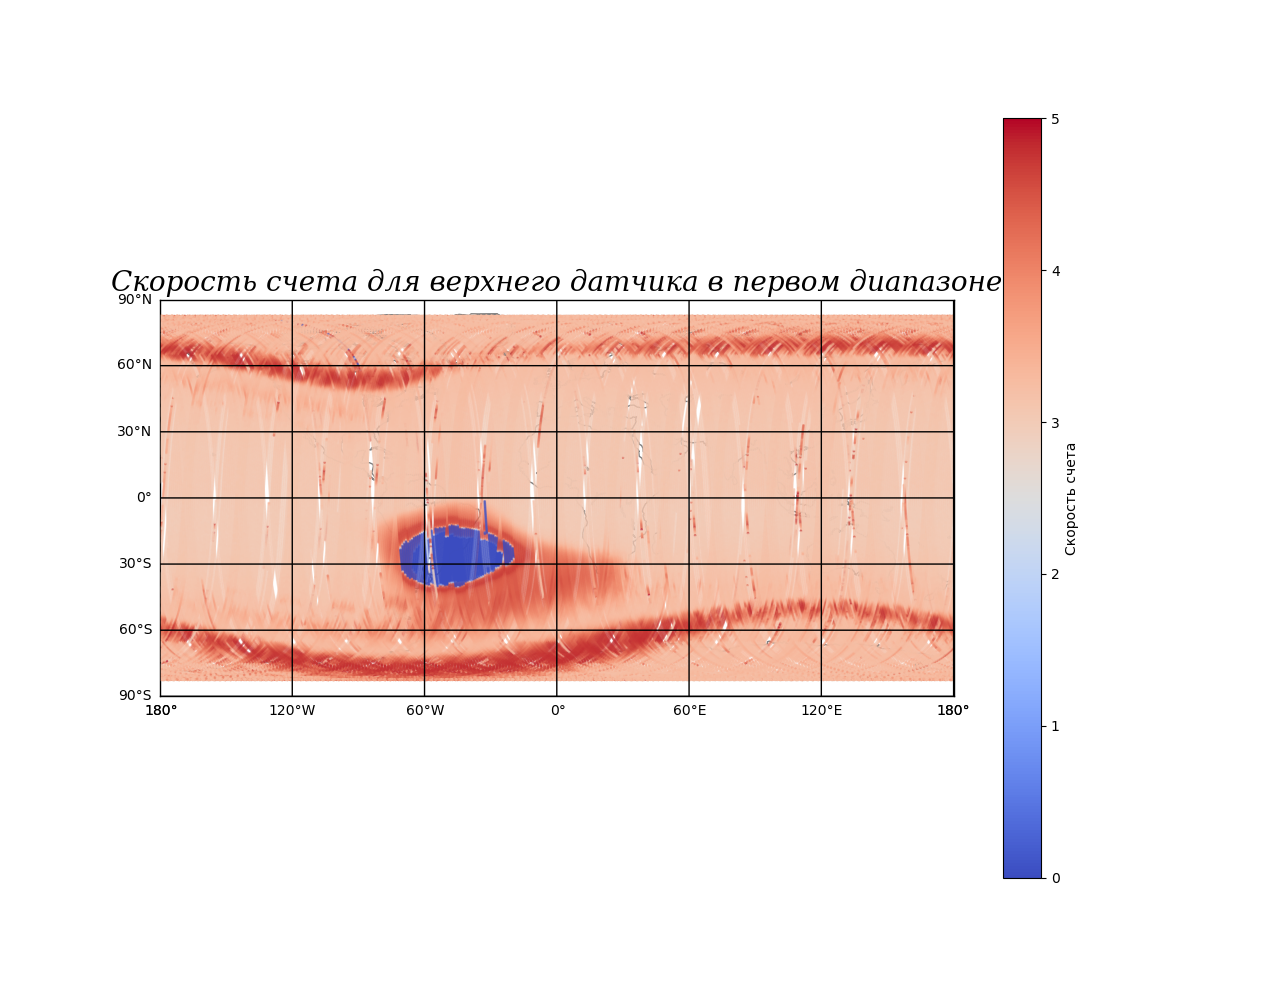
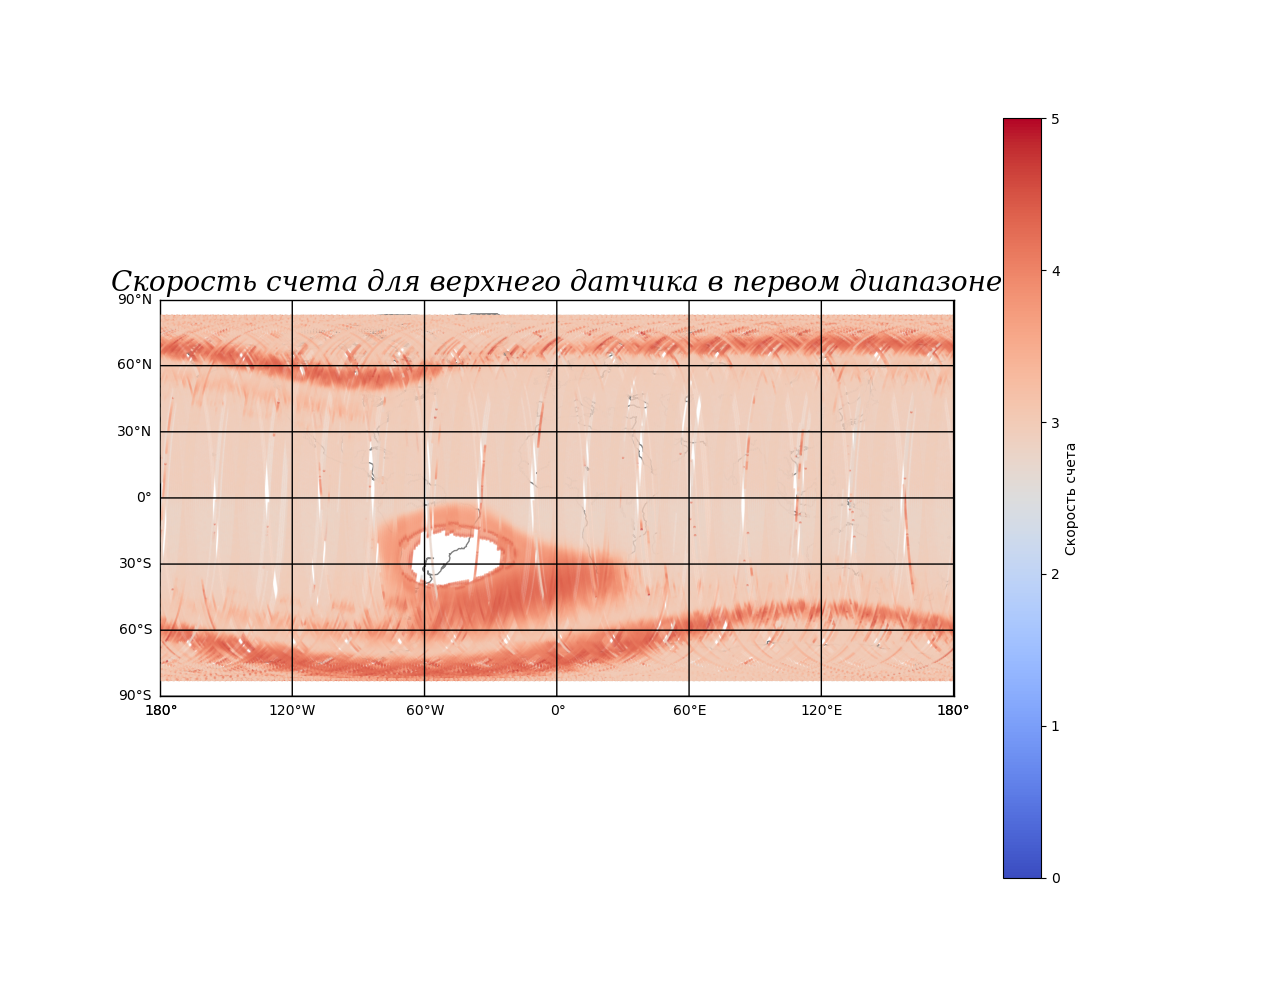
draw plots for other days and find best stable range

diff --git a/graph.py b/graph.py
@@ -3,6 +3,8 @@ import numpy as np
 import bisect
 
 
+DATE = 20090308
+
 def get_lat_ticks(times, pair_time_lat):
     tick_labels = []
     for time in times:
@@ -12,7 +14,7 @@ def get_lat_ticks(times, pair_time_lat):
 
 
 def read(name):
-    with open(f"orbit_20090312/{name}") as file:
+    with open(f"orbits/orbit_{DATE}/{name}") as file:
         time = []
         lat = []
         count_rate = []
@@ -22,33 +24,42 @@ def read(name):
         str_time_duration = file.readline()
         str_long_range = file.readline()
 
+        points_color = []
+
         for line in file:
             point = list(map(float, line.split()))
             time.append(point[0])
-            lat.append(round(point[2], 2))
-            count_rate.append(point[1])
-            pair_time_lat[0].append(point[0])
-            pair_time_lat[1].append(point[2])
+            lat.append(round(point[-2], 2))
+            count_rate.append(sum(point[1:4]))
+            if sum(point[1:4]) > 500 and sum(point[1:4]) < 2000:
+                points_color.append('lightgreen')
+            else:
+                points_color.append('blue')
 
-        return [count_rate, lat, time, pair_time_lat, str_time_range, str_time_duration, str_long_range]
+            pair_time_lat[0].append(point[0])
+            pair_time_lat[1].append(point[-2])
+
+        return [count_rate, lat, time, pair_time_lat, str_time_range, str_time_duration, str_long_range, points_color]
 
 
 def main():
     for index in range(31):
-        data = read("20090312_{:02d}.txt".format(index))
+        data = read(f"{DATE}_{index:02d}.txt")
 
         count_rate = data[0]
         lat = data[1]
         time = data[2]
         pair_time_lat = data[3]
         title_data = f"{data[4]}{data[5]}{data[6]}"
+        points_color = data[7]
 
         fig, ax = plt.subplots(figsize=(24, 18))
 
         ax1 = ax.twiny()
 
         # plt.scatter(time, countRate, s=0.5)
-        ax.plot(time, count_rate, color='blue', linewidth=1.25)
+        # print(len(time), len(count_rate), len(points_color))
+        ax.scatter(time, count_rate, color=points_color, linewidth=1.25, s=15)
 
         plt.annotate(title_data, (0, 0), (0, -70), xycoords='axes fraction', textcoords='offset points', va='top', fontsize=18)
 
@@ -74,7 +85,7 @@ def main():
         ax.set_yticks(np.arange(0, 20000, 1000))
 
 
-        # plt.semilogy()
+        plt.semilogy()
 
         ax.set_ylim([10, 20000])
         ax.grid(which="major", color=[0.4, 0.4, 0.4])
@@ -83,7 +94,7 @@ def main():
 
         ax1.set_xlabel("Latitude", fontsize=35)
 
-        fig.savefig("plots/20090312_{:02d}.png".format(index))
+        fig.savefig(f"plots/orbit_{DATE}/{DATE}_{index:02d}.png")
         plt.close(fig)
 
 

diff --git a/draw_map2.py b/draw_map2.py
@@ -25,12 +25,11 @@ class Plot:
         self.scale = 0.2
         # m.etopo(scale=0.5, alfa=0) # Another way of drawing
         self.draw_map()
-        self.norm = matplotlib.colors.Normalize(vmin=0, vmax=self.const)
-        print(self.const)
+        self.norm = matplotlib.colors.Normalize(vmin=2, vmax=self.const)
         self.cmap = matplotlib.cm.coolwarm
         plt.set_cmap('coolwarm')
         self.cbar = plt.colorbar(matplotlib.cm.ScalarMappable(norm=self.norm, cmap=self.cmap), label="Скорость счета")
-        self.cbar.set_ticks([i * 1 for i in range(0, 180)])
+        self.cbar.set_ticks(np.arange(2, 5.1, 0.5))
         self.ax.set_title(self.label, fontsize=20, fontfamily='serif',
                           fontstyle='italic')
         self.draw_points()
@@ -50,19 +49,23 @@ class Plot:
         y = []
         t = []
         self.const = np.log10(100000)
-        ar = []
+        el = 200000000
         with open(self.filename) as file:
             counter = 0
             for line in file:
                 if self.start < counter < self.finish:
                     lst1 = list(map(float, line.split()))
-                    x.append(lst1[2])
-                    y.append(lst1[1])
-                    ar.append(lst1[0])
-                    t.append(plt.cm.coolwarm(np.log10(lst1[0] + 1) / self.const))
+                    cur_count_rates = lst1[0:3]
+                    cur_count_rates.sort()
+                    if cur_count_rates[1] > 0:
+                        el = min(el, np.log10(sum(cur_count_rates)))
+                        t.append(plt.cm.coolwarm((np.log10(sum(cur_count_rates)) - 2) / self.const))
+                        x.append(lst1[-1])
+                        y.append(lst1[-2])
                 counter += 1
         plt.scatter(x, y, c=t, s=1, zorder=1, alpha=0.5)
         # print(sorted(ar))
+        print(el)
     def draw_plot(self):
         plt.show()
 

diff --git a/day_data.py b/day_data.py
@@ -115,11 +115,14 @@ def get_stable_file_count_rate_range(file_name):
     str_count_rate = read_text_file(file_name)
     lst_count_rate = [list(map(float, s.split())) for s in str_count_rate.split('\n')[3:] if len(s.split()) > 0]
     range_duration = len(lst_count_rate)
-    cnt_good_points = 0 # count_rate from 500 to 1500
+
+    good_lower_bound = 500
+    good_upper_bound = 2000
+    cnt_good_points = 0 # count_rate from good_lower_bound to good_upper_bound
 
     for line in lst_count_rate:
         cur_count_rate = sum(line[1:4])
-        if cur_count_rate > 500 and cur_count_rate < 1500:
+        if cur_count_rate > good_lower_bound and cur_count_rate < good_upper_bound:
             cnt_good_points += 1
     return cnt_good_points / range_duration
 
@@ -147,16 +150,18 @@ def get_stable_day_count_rate_range(date):
 def main():
     save_data = './day_count_rate.txt'
     tle_file = './actual_tle.txt'
+    mean_stable_range = 'mean_stable_range.txt'
     lst_stable_range = []
 
-    for day in range(1, 32):
-        # get_day_count_rate(day, save_data, tle_file)
-        # split_day_count_rate(save_data, f'200903{day:02d}')
+    with open(mean_stable_range, "w") as save_data:
+        for day in range(1, 32):
+            # get_day_count_rate(day, save_data, tle_file)
+            # split_day_count_rate(save_data, f'200903{day:02d}')
 
-        cur_stable_range = get_stable_day_count_rate_range(f'200903{day:02d}')
-        lst_stable_range.append(cur_stable_range)
+            cur_stable_range = get_stable_day_count_rate_range(f'200903{day:02d}')
+            lst_stable_range.append(cur_stable_range)
+            print(f"{day:02d}   {cur_stable_range:.3f}", file=save_data)
     
-    print(lst_stable_range)
     print(sum(lst_stable_range) / len(lst_stable_range))
 
 
